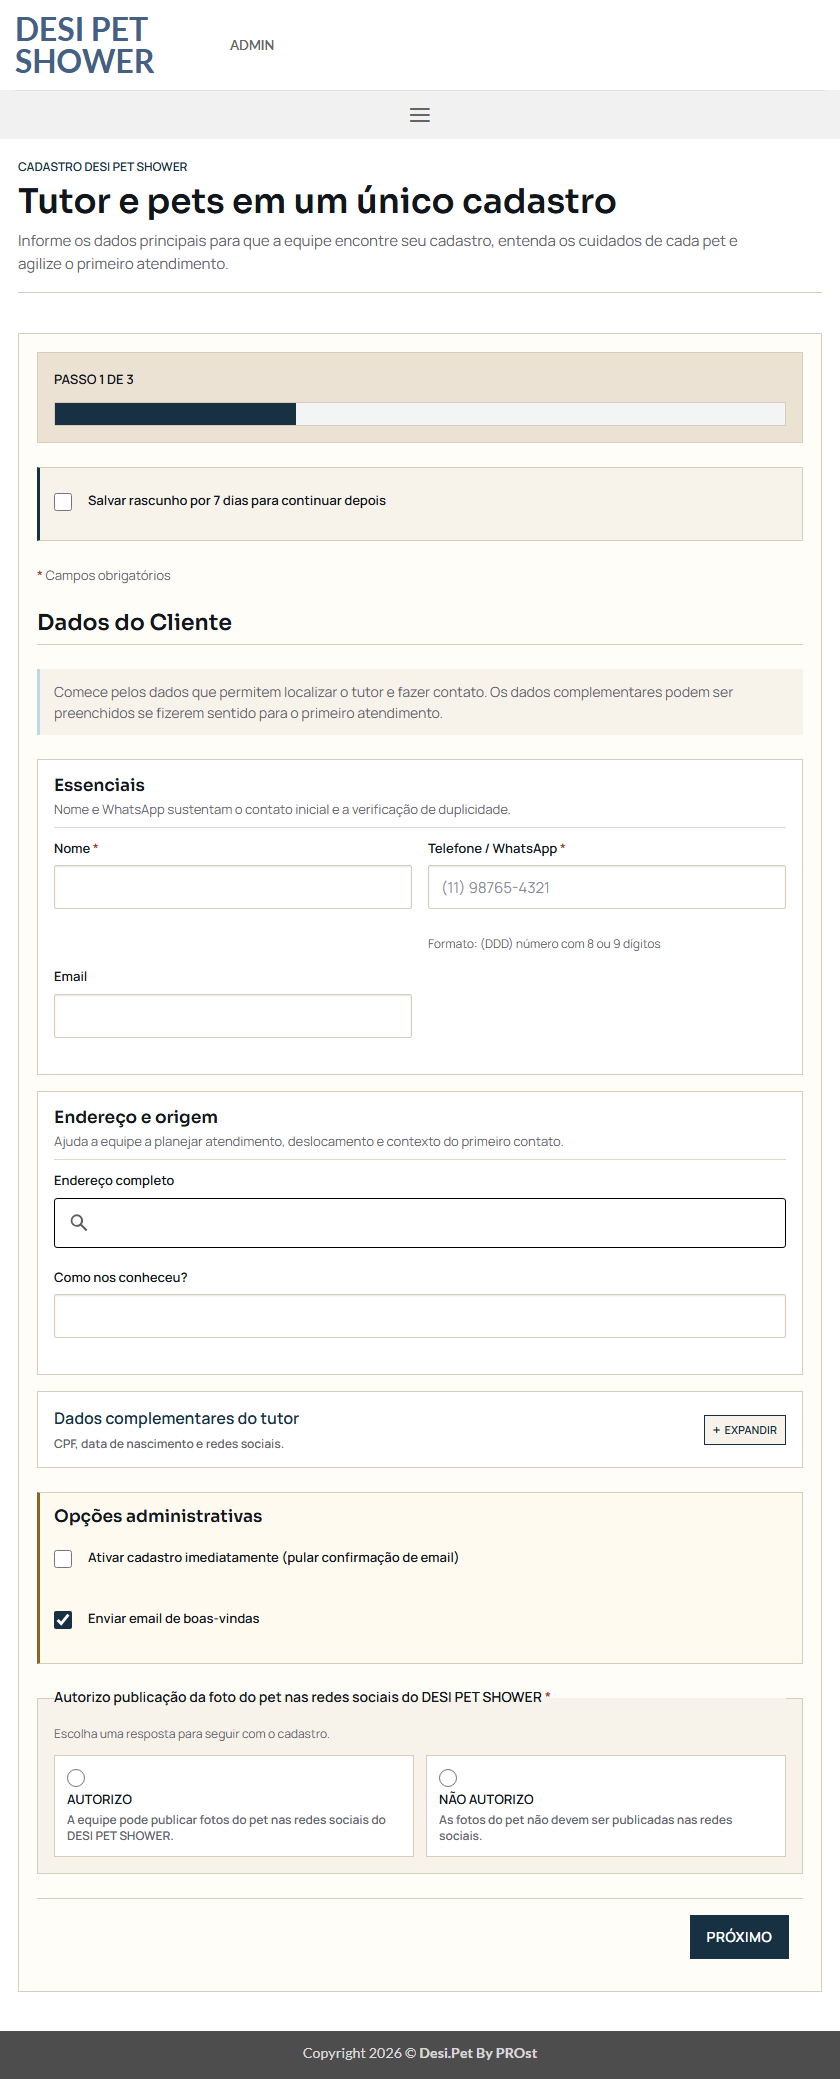
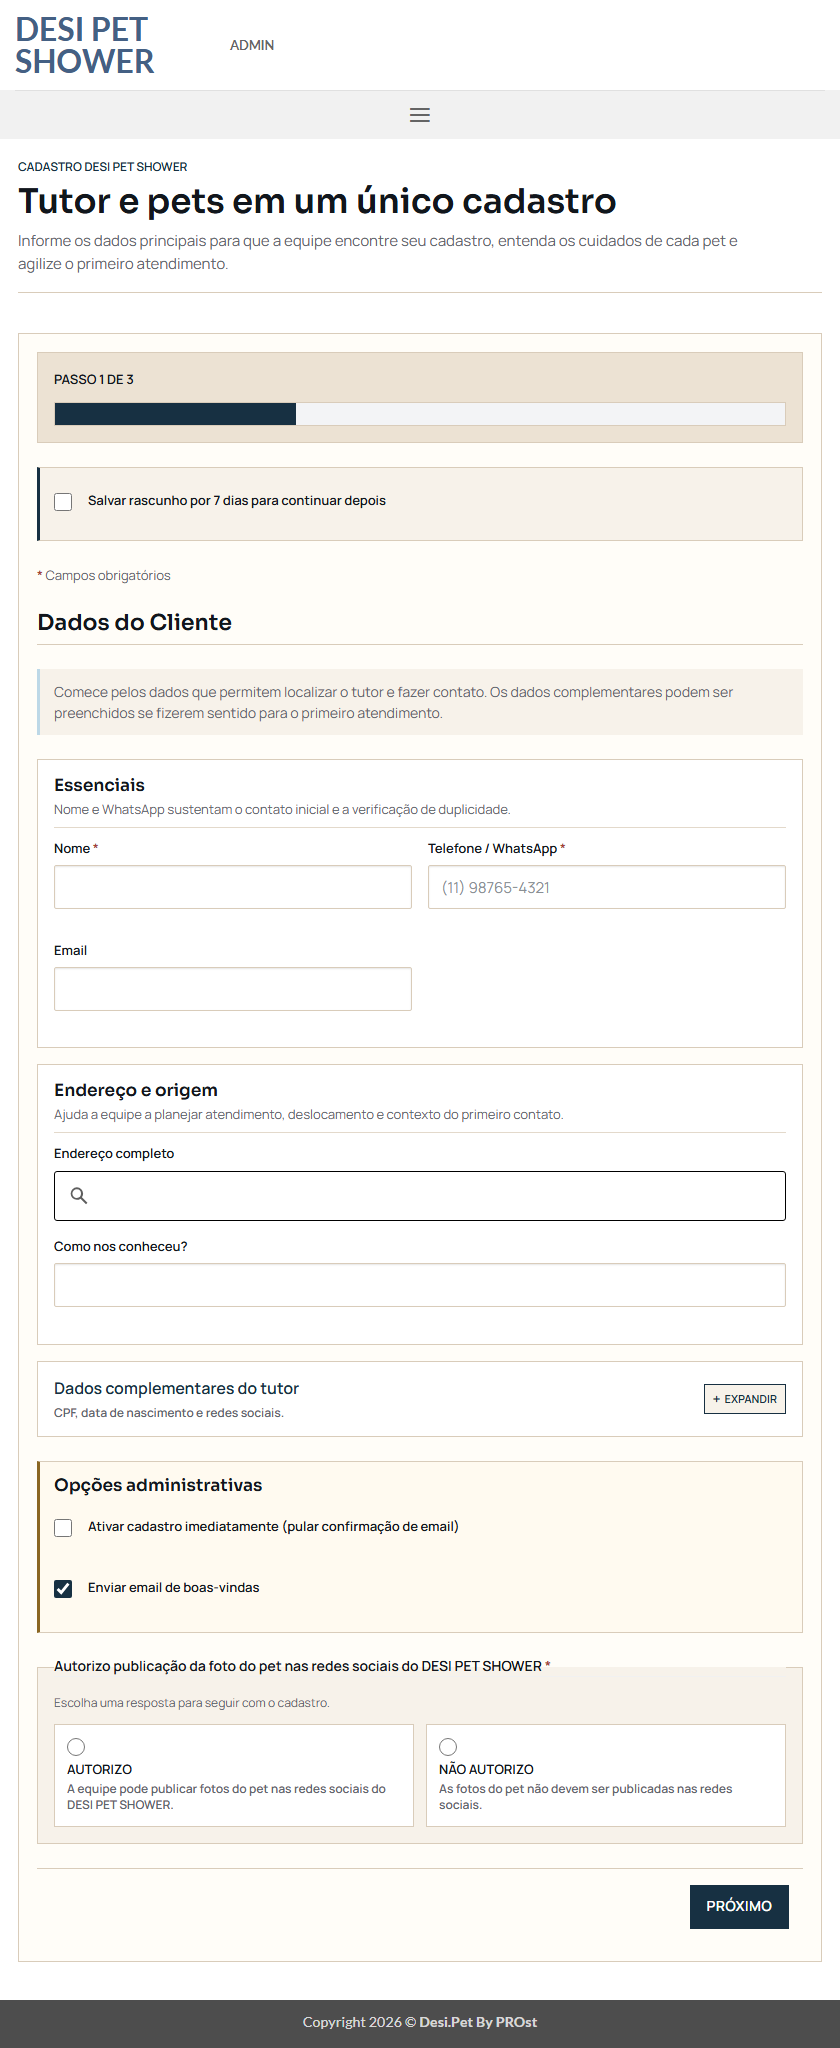
Remover dica de telefone do Cadastro

diff --git a/plugins/desi-pet-shower-registration/assets/css/registration-addon.css b/plugins/desi-pet-shower-registration/assets/css/registration-addon.css
@@ -269,7 +269,7 @@
 .dps-optional-details__body {
     display: grid;
     grid-template-columns: repeat(2, minmax(0, 1fr));
-    gap: var(--dps-reg-gap-lg);
+    gap: var(--dps-reg-gap-md) var(--dps-reg-gap-lg);
 }
 
 .dps-client-fields p,

diff --git a/plugins/desi-pet-shower-registration/desi-pet-shower-registration-addon.php b/plugins/desi-pet-shower-registration/desi-pet-shower-registration-addon.php
@@ -3,7 +3,7 @@
  * Plugin Name:       desi.pet by PRObst – Cadastro Add-on
  * Plugin URI:        https://www.probst.pro
  * Description:       Página pública de cadastro para clientes e pets. Envie o link e deixe o cliente preencher seus dados.
- * Version:           1.3.2
+ * Version:           1.3.3
  * Author:            PRObst
  * Author URI:        https://www.probst.pro
  * Text Domain:       dps-registration-addon
@@ -1018,7 +1018,7 @@ class DPS_Registration_Addon {
         }
 
         $addon_url = plugin_dir_url( __FILE__ );
-        $version   = '1.3.2';
+        $version   = '1.3.3';
 
         $recaptcha_settings = $this->get_recaptcha_settings();
         $should_load_recaptcha = $recaptcha_settings['enabled'] && ! empty( $recaptcha_settings['site_key'] );
@@ -2893,7 +2893,7 @@ class DPS_Registration_Addon {
         echo '<div class="dps-client-fields dps-client-fields--grouped">';
         echo DPS_Registration_UX::open_field_group( __( 'Essenciais', 'dps-registration-addon' ), __( 'Nome e WhatsApp sustentam o contato inicial e a verificação de duplicidade.', 'dps-registration-addon' ), 'essential' );
         echo '<p><label>' . esc_html__( 'Nome', 'dps-registration-addon' ) . ' <span class="dps-required">*</span><br><input type="text" name="client_name" id="dps-client-name" required></label></p>';
-        echo '<p><label for="dps-client-phone">' . esc_html__( 'Telefone / WhatsApp', 'dps-registration-addon' ) . ' <span class="dps-required">*</span><br><input type="tel" name="client_phone" id="dps-client-phone" placeholder="(11) 98765-4321" autocomplete="tel" required aria-describedby="dps-phone-hint"></label><span id="dps-phone-hint" class="dps-field-hint">' . esc_html__( 'Formato: (DDD) número com 8 ou 9 dígitos', 'dps-registration-addon' ) . '</span></p>';
+        echo '<p><label for="dps-client-phone">' . esc_html__( 'Telefone / WhatsApp', 'dps-registration-addon' ) . ' <span class="dps-required">*</span><br><input type="tel" name="client_phone" id="dps-client-phone" placeholder="(11) 98765-4321" autocomplete="tel" required></label></p>';
         echo '<p><label>Email<br><input type="email" name="client_email" id="dps-client-email" autocomplete="email"></label></p>';
         echo DPS_Registration_UX::close_field_group();
 

diff --git a/CHANGELOG.md b/CHANGELOG.md
@@ -106,6 +106,7 @@ Antes de criar uma nova versÃ£o oficial:
 - Reorganizada a etapa do tutor em grupos de dados essenciais, endereco/origem e complementares, com rascunho opt-in e live region acessivel.
 - Transformada a autorização de publicação da foto do pet em escolha obrigatória `Autorizo`/`Não autorizo`, destacada acima do botão Próximo.
 - Adicionado indicador `Expandir`/`Recolher` aos disclosures opcionais do Cadastro para deixar a área expansível explícita.
+- Removida a dica fixa de formato do campo Telefone/WhatsApp e compactado o espaçamento vertical dos campos essenciais.
 - Reorganizada a etapa de pets para manter campos obrigatorios em primeiro plano e mover detalhes/cuidado para disclosures opcionais.
 - Reorganizada a foto do pet como campo opcional dentro dos detalhes do pet, com preview quadrado, borda fina e validação client-side alinhados ao DPS Signature.
 - Reafirmados `desi-pet-shower-registration` e `desi-pet-shower-booking` como implementações canônicas dos fluxos públicos de cadastro e agendamento, encerrando o dual-run do add-on `desi-pet-shower-frontend`.

diff --git a/docs/screenshots/2026-04-25/SCREENSHOTS_2026-04-25.md b/docs/screenshots/2026-04-25/SCREENSHOTS_2026-04-25.md
@@ -87,6 +87,7 @@ Resumo:
 - autorizacao de publicacao de foto movida para um fieldset obrigatorio acima do botao `Proximo`, com opcoes destacadas `Autorizo` e `Nao autorizo`;
 - validacao em branco passou a bloquear avanco tambem com `Informe se autoriza ou nao autoriza a publicacao da foto do pet.`;
 - runtime publicado confirmou `photoAuthFieldExists: true`, `photoAuthOptions: 2`, `photoAuthRequired: true` e `summaryHasPhotoAuth: true`;
+- campo Telefone/WhatsApp validado sem o texto fixo `Formato: (DDD) numero com 8 ou 9 digitos`; `phoneHintExists: false` nos cinco breakpoints e grid essencial com menor espaco vertical entre linhas;
 - rascunho opt-in salvou, exibiu `Rascunho salvo.`, restaurou o nome do tutor e foi limpo apos envio real;
 - clone de pet gerou dois fieldsets, legends `Pet 1` e `Pet 2`, e nomes `pet_aggressive[0]` / `pet_aggressive[1]`;
 - etapa 3 gerou preferencias e resumo para dois pets;
